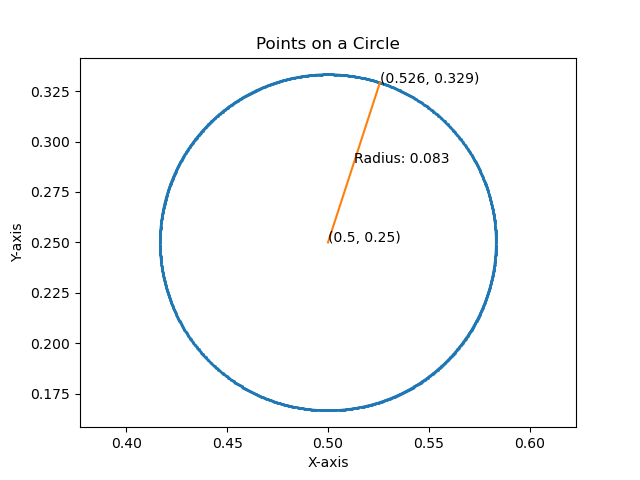
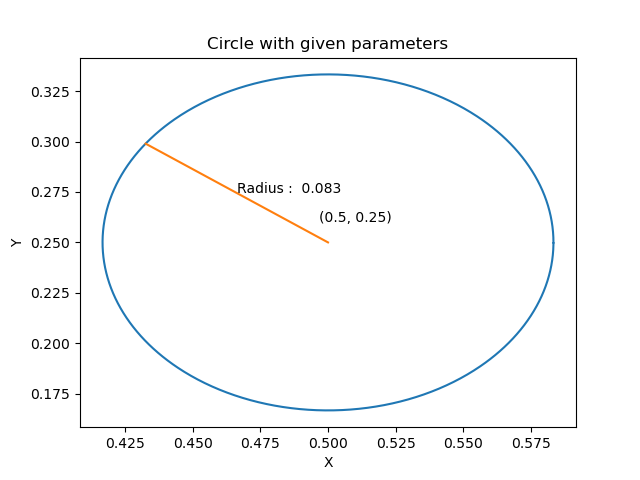
q10-changes

diff --git a/mat-geo-ques/q10/codes/plot.py b/mat-geo-ques/q10/codes/plot.py
@@ -2,36 +2,48 @@ import ctypes
 import numpy as np
 import matplotlib.pyplot as plt
 
-circle_lib = ctypes.CDLL('./generate.so')
+class Point(ctypes.Structure):
+    _fields_ = [("x", ctypes.c_double),
+                ("y", ctypes.c_double)]
 
-circle_lib.generate_circle_points.argtypes = [ctypes.POINTER(ctypes.c_double), ctypes.c_double, ctypes.c_int]
-circle_lib.generate_circle_points.restype = ctypes.POINTER(ctypes.c_double)  
-def generate_circle_points(center, radius, num_points):
-    points_ptr = circle_lib.generate_circle_points(center, radius, num_points)  
-    points = np.ctypeslib.as_array(points_ptr, (num_points, 2))
-    return points
+class Circle(ctypes.Structure):
+    _fields_ = [("center", Point),
+                ("radius", ctypes.c_double),
+                ("num_points", ctypes.c_int),
+                ("points", ctypes.POINTER(Point))]
 
-center_array_type = ctypes.c_double * 2  
-my_center = center_array_type(0.5, 0.25)  
-radius = 1/12
+gen = ctypes.CDLL('./generate.so')
+gen.generate_circle_points.argtypes = [ctypes.POINTER(Circle)]
+gen.generate_circle_points.restype = None
+
 num_points = 1000
+my_center = Point(0.5, 0.25)
+radius = 1 / 12
 
-circle_points = generate_circle_points(my_center, radius, num_points)
+to_draw = Circle()
+to_draw.radius = radius
+to_draw.num_points = num_points
+to_draw.center = my_center
 
-plt.figure()
-plt.plot(circle_points[:, 0], circle_points[:, 1], marker='o', markersize=1)
-plt.plot((my_center[0], circle_points[200, 0]),(my_center[1], circle_points[200, 1]))
-plt.annotate(f"({my_center[0]}, {my_center[1]})", (my_center[0], my_center[1]))
-plt.annotate(f"({circle_points[200, 0]:.3f}, {circle_points[200, 1 ]:.3f})", (circle_points[200, 0], circle_points[200, 1]))
-midpoint_x = (my_center[0] + circle_points[200, 0]) / 2
-midpoint_y = (my_center[1] + circle_points[200, 1]) / 2
-plt.annotate(f"Radius:{radius : .3f}", (midpoint_x, midpoint_y))
-plt.title('Points on a Circle')
-plt.xlabel('X-axis')
-plt.ylabel('Y-axis')
-plt.axis('equal')
+points_array_type = Point * to_draw.num_points
+to_draw.points = points_array_type()
+
+gen.generate_circle_points(ctypes.byref(to_draw))
+
+points_np = np.zeros((num_points,), dtype=[('x', np.float64), ('y', np.float64)])
+
+for j in range(num_points):
+    points_np[j] = (to_draw.points[j].x, to_draw.points[j].y)
+
+fig = plt.figure()
+ax = plt.gca()
+ax.plot(points_np['x'], points_np['y'])
+ax.annotate(f"({to_draw.center.x}, {to_draw.center.y})", (to_draw.center.x, to_draw.center.y), textcoords="offset points", xytext=(20, 15), ha="center")
+ax.plot([to_draw.center.x, to_draw.points[400].x],[to_draw.center.y, to_draw.points[400].y]);
+ax.annotate(f"Radius : {to_draw.radius : 0.3f}", ((to_draw.center.x + to_draw.points[400].x) / 2, (to_draw.center.y + to_draw.points[400].y) / 2))
+ax.set_xlabel('X')
+ax.set_ylabel('Y')
+ax.set_title('Circle with given parameters')
 plt.savefig('../figs/fig.png')
-plt.grid()
 plt.show()
-
 

diff --git a/mat-geo-ques/q10/codes/generate.c b/mat-geo-ques/q10/codes/generate.c
@@ -1,14 +1,30 @@
 #include <stdio.h>
 #include <math.h>
 #include <stdlib.h>
+struct point {
+    double x;
+    double y;
+};
+struct Circle {
+    struct point center;
+    double radius;
+    int num_points;
+    struct point *points;
+};
 
-double *generate_circle_points(double center[2], double radius, int num_points) {
-    double *points = (double *)malloc(sizeof(double) * 2 * num_points);	
-    for (int i = 0; i < num_points; i++) {
-        double angle = 2 * M_PI * i / num_points;
-        points[2 * i] = center[0] + radius * cos(angle);
-        points[2 * i + 1] = center[1] + radius * sin(angle);
+void generate_circle_points(struct Circle *my_circle) {
+    my_circle->points = malloc(sizeof(struct point) * my_circle->num_points);
+    for (int i = 0; i < my_circle->num_points; i++) {
+        double angle = 2 * M_PI * i / my_circle->num_points;
+        my_circle->points[i].x = my_circle->center.x + my_circle->radius * cos(angle);
+        my_circle->points[i].y = my_circle->center.y + my_circle->radius * sin(angle);
     }
-    return points;
+}
+
+void free_circle_points(struct Circle *my_circle) {
+    if (my_circle->points != NULL) {
+        free(my_circle->points);
+        my_circle->points = NULL;
+    }
 }
 
